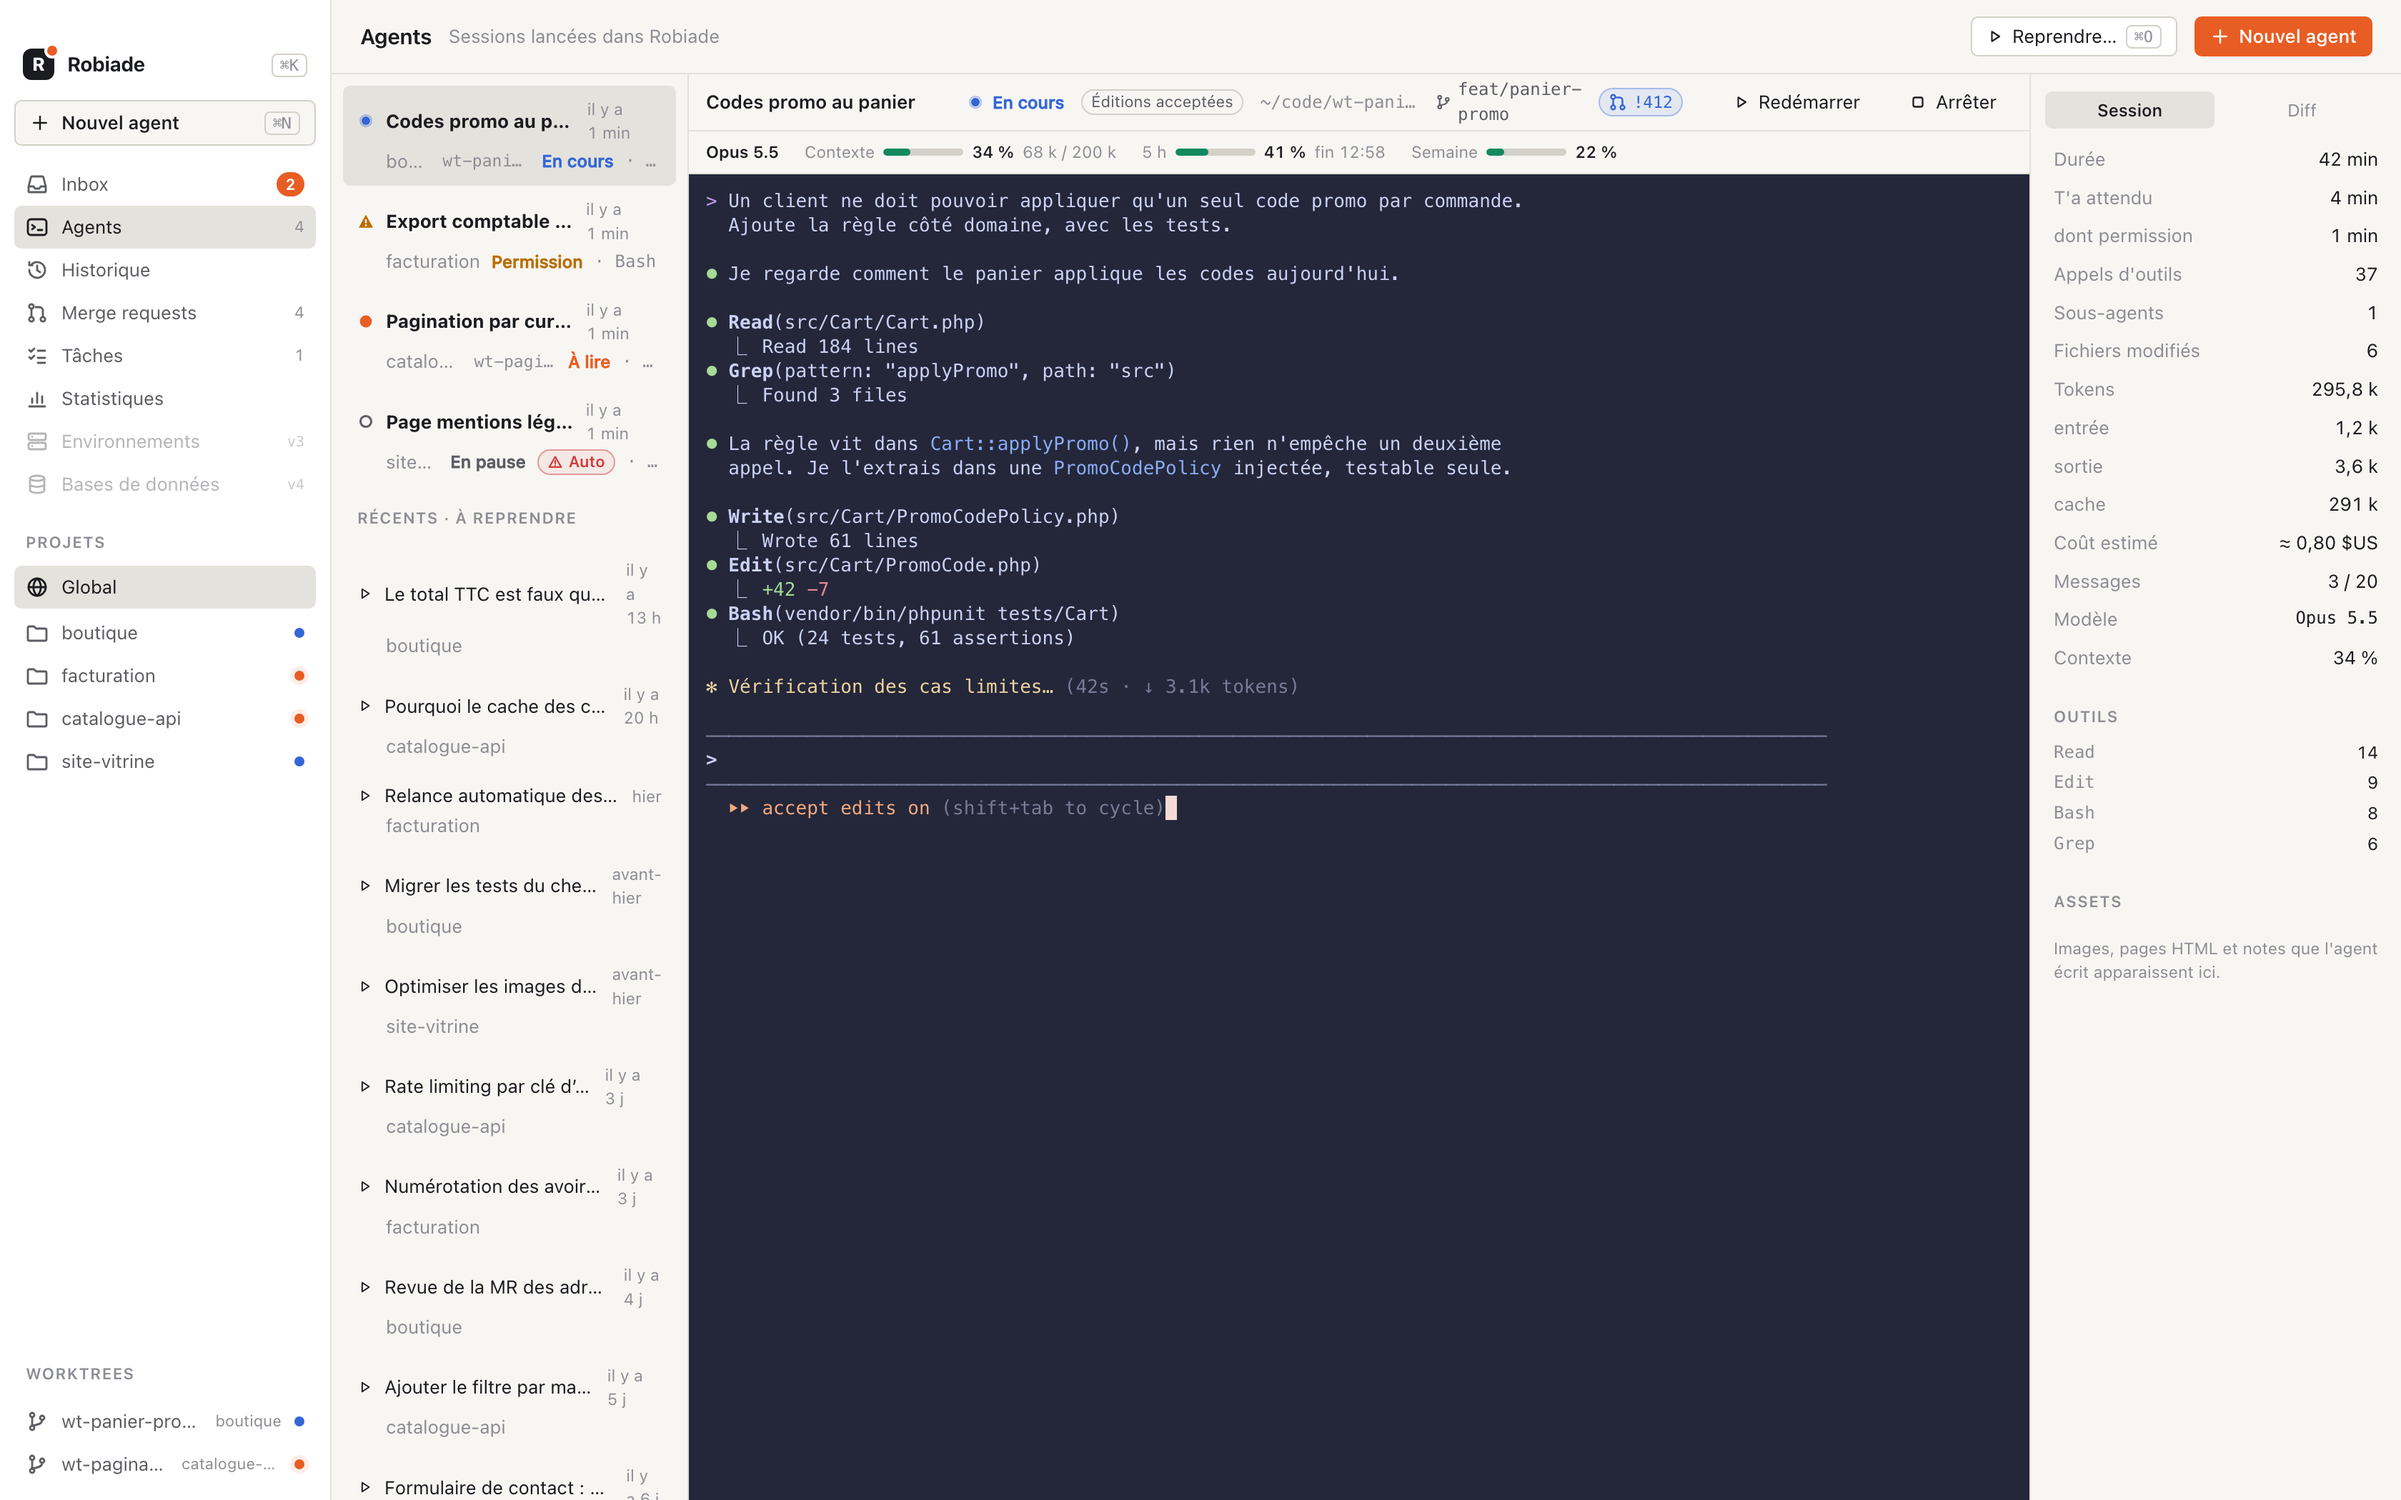
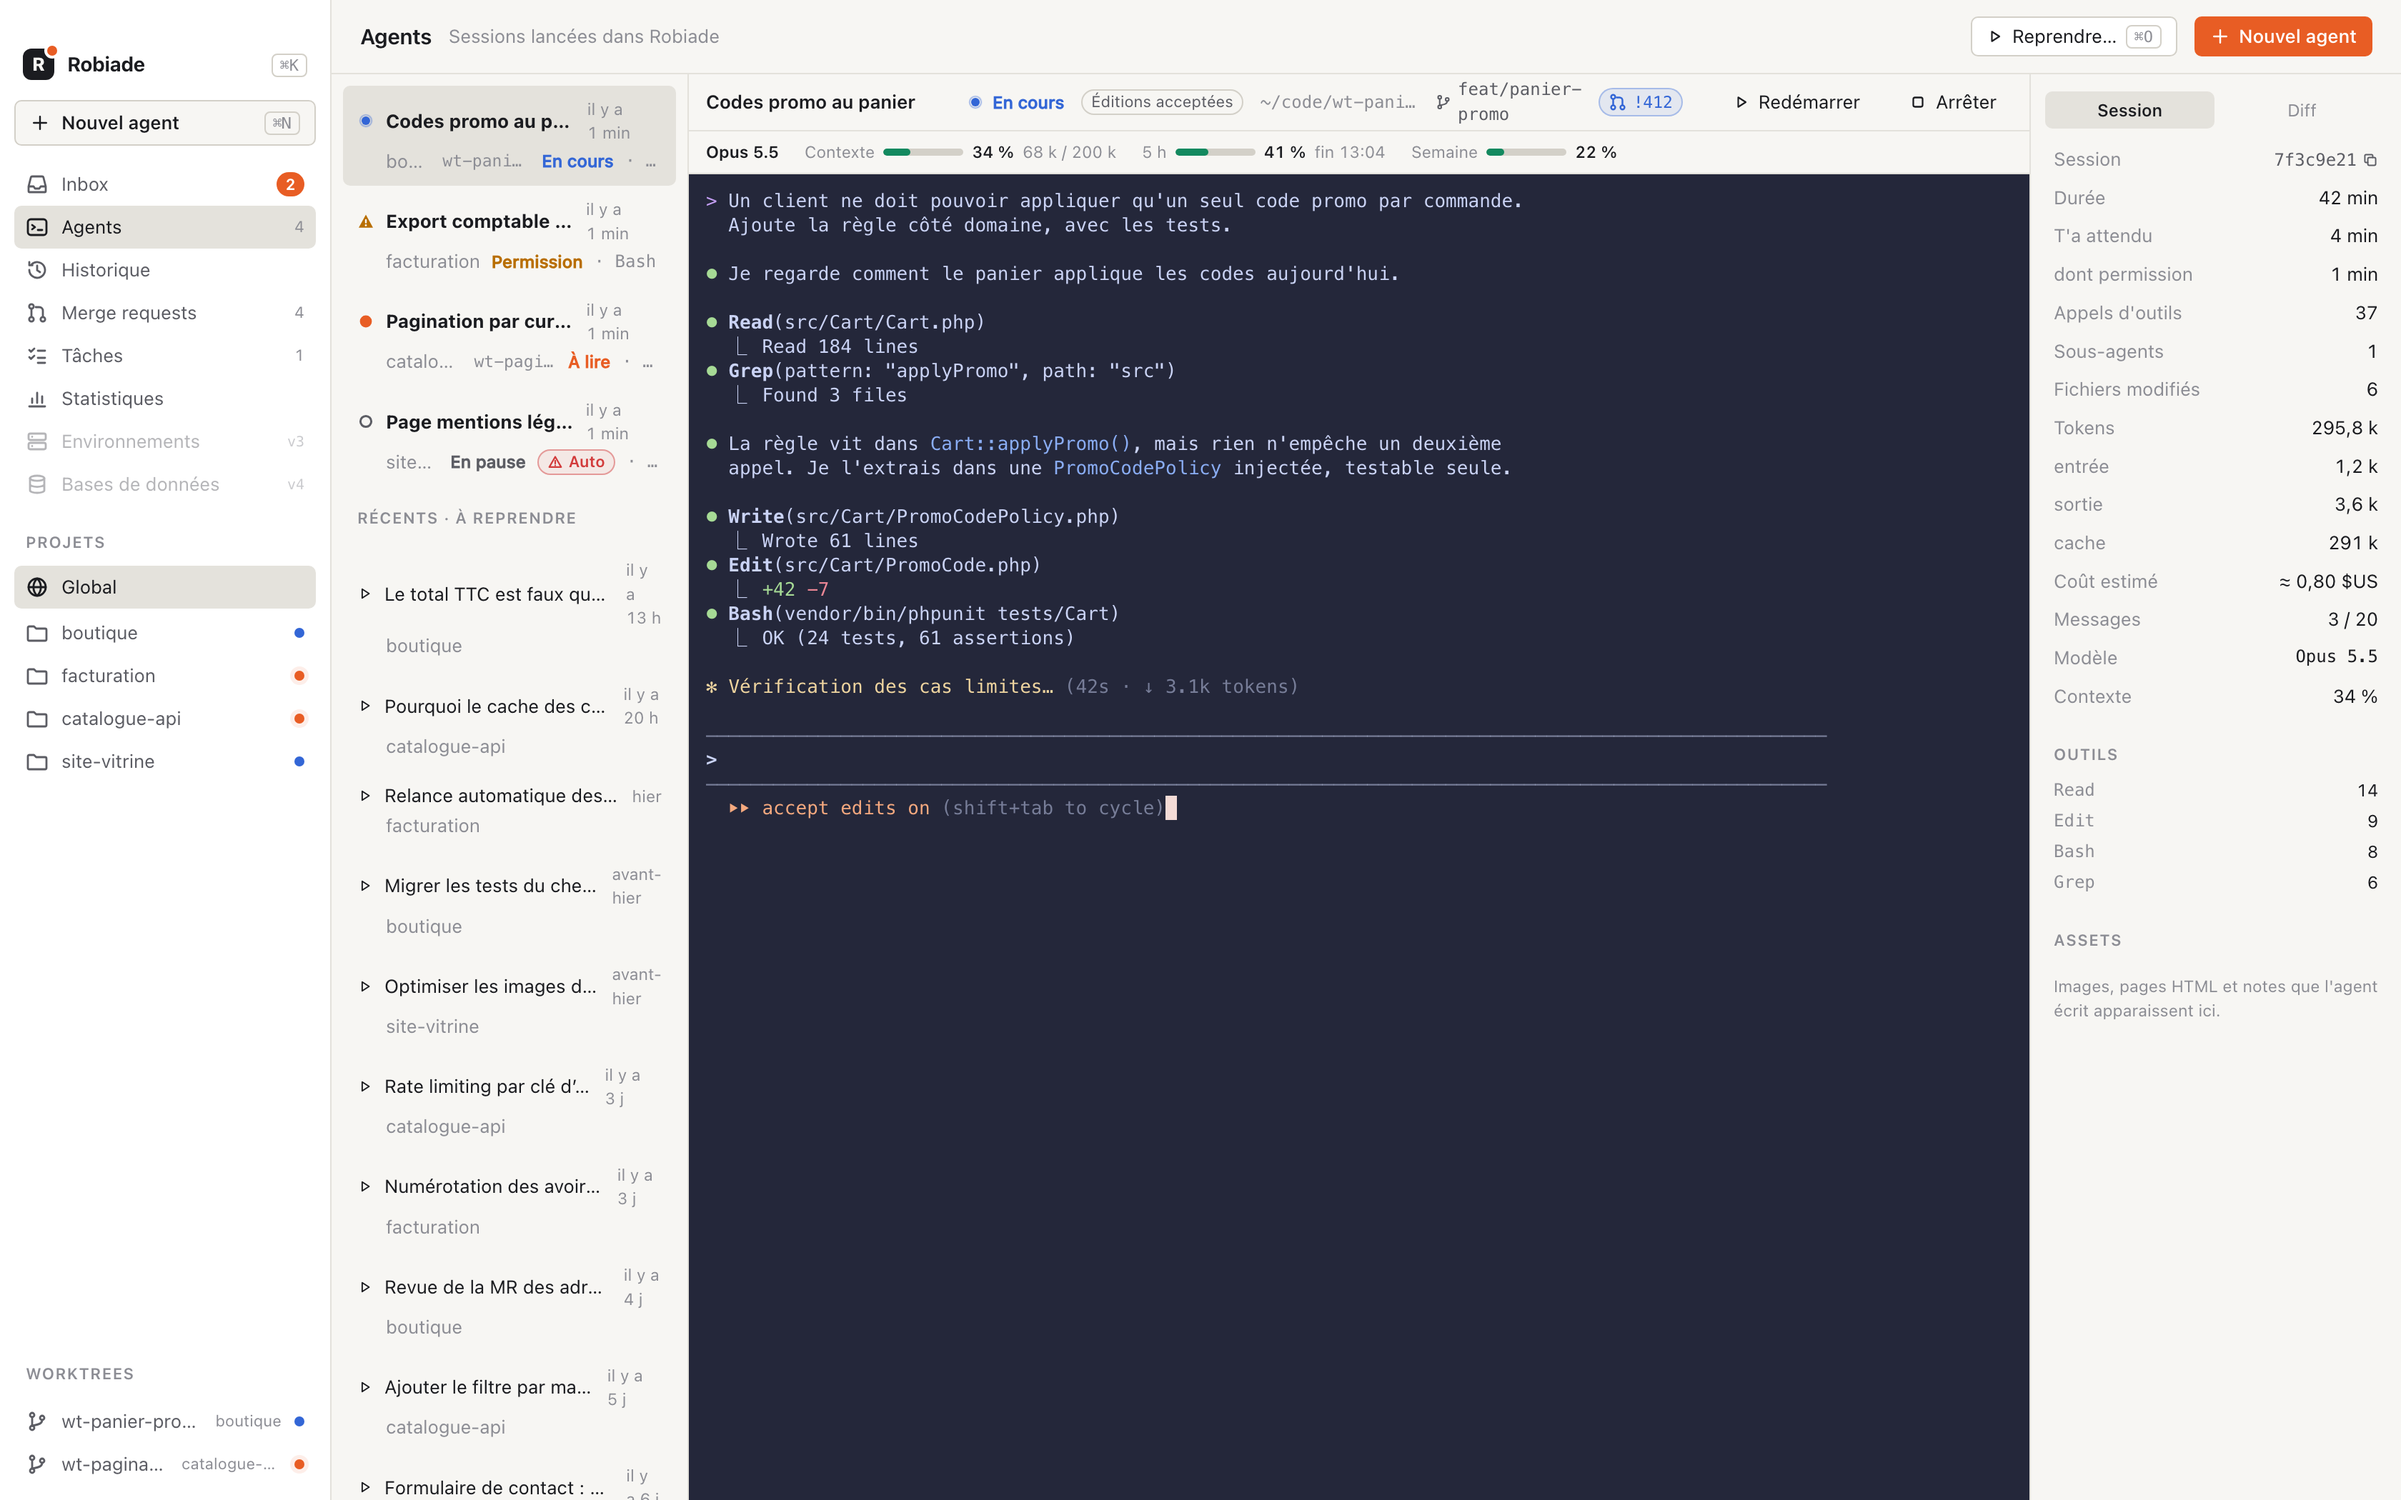
docs: captures à jour, identifiants de session réalistes dans la démo

diff --git a/ui/demo/mock.ts b/ui/demo/mock.ts
@@ -71,11 +71,13 @@ function agent(id: string, project: number, worktree: string | null, status: Age
   };
 }
 
+export const AGENT_IDS = ["7f3c9e21-4b8a-4d6e-9c1f-2a5b8e0d3f47", "b2e4a7c9-1d3f-4e8b-a6c2-9f0e5d7b1a38", "c9d1f3e5-7a2b-4c8d-b0e6-3f5a9c1d7e24", "e5a7c9b1-3d5f-4a2c-8e0b-6d1f4a9c2b57"];
+
 const agents: Agent[] = [
-  agent('a1', 0, 'panier-promo', 'running', { name: 'Codes promo au panier', lastTool: 'Edit' }),
-  agent('a2', 1, null, 'awaitingPermission', { name: 'Export comptable CSV', lastTool: 'Bash', permissionMs: 3 * MIN }),
-  agent('a3', 2, 'pagination', 'awaitingInput', { name: 'Pagination par curseur', toolCalls: 58 }),
-  agent('a4', 3, null, 'idle', { name: 'Page mentions légales', permissionMode: 'auto', permissive: true }),
+  agent('7f3c9e21-4b8a-4d6e-9c1f-2a5b8e0d3f47', 0, 'panier-promo', 'running', { name: 'Codes promo au panier', lastTool: 'Edit' }),
+  agent('b2e4a7c9-1d3f-4e8b-a6c2-9f0e5d7b1a38', 1, null, 'awaitingPermission', { name: 'Export comptable CSV', lastTool: 'Bash', permissionMs: 3 * MIN }),
+  agent('c9d1f3e5-7a2b-4c8d-b0e6-3f5a9c1d7e24', 2, 'pagination', 'awaitingInput', { name: 'Pagination par curseur', toolCalls: 58 }),
+  agent('e5a7c9b1-3d5f-4a2c-8e0b-6d1f4a9c2b57', 3, null, 'idle', { name: 'Page mentions légales', permissionMode: 'auto', permissive: true }),
 ];
 
 const TITLES: [number, string, string | null, string | null][] = [
@@ -101,7 +103,7 @@ const sessions: Session[] = TITLES.map(([project, title, branch, mr], i) => {
   const last = NOW - (i < 4 ? i * 3 + 1 : i * i * 47) * MIN;
   return {
     ...ws,
-    sessionId: i < 4 ? `a${i + 1}` : `s${i}`,
+    sessionId: i < 4 ? AGENT_IDS[i]! : `s${i}`,
     projectPath: ws.projectRoot,
     title,
     gitBranch: branch,

diff --git a/ui/demo/main.ts b/ui/demo/main.ts
@@ -1,5 +1,5 @@
 /** Entrée de démo : `/demo/?view=agents&dialog=resume`, pour `screens.sh`. */
-import { emit, install } from './mock';
+import { AGENT_IDS, emit, install } from './mock';
 
 install();
 const { app } = await import('../src/lib/state.svelte');
@@ -10,7 +10,7 @@ await new Promise((r) => setTimeout(r, 300));
 app.view = (params.get('view') ?? 'inbox') as typeof app.view;
 if (params.get('project')) app.selectProject(`/Users/demo/code/${params.get('project')}`);
 if (params.get('dialog') === 'resume') app.resumeOpen = true;
-if (params.get('view') === 'agents') app.openAgent('a1');
+if (params.get('view') === 'agents') app.openAgent(AGENT_IDS[0]!);
 
 const ESC = '\x1b[';
 const c = (code: string, text: string) => `${ESC}${code}m${text}${ESC}0m`;
@@ -45,4 +45,4 @@ const lines = [
 const bytes = new TextEncoder().encode(lines.join('\r\n'));
 let bin = '';
 bytes.forEach((b) => (bin += String.fromCharCode(b)));
-emit('agent:output', { id: 'a1', data: btoa(bin) });
+emit('agent:output', { id: AGENT_IDS[0]!, data: btoa(bin) });
